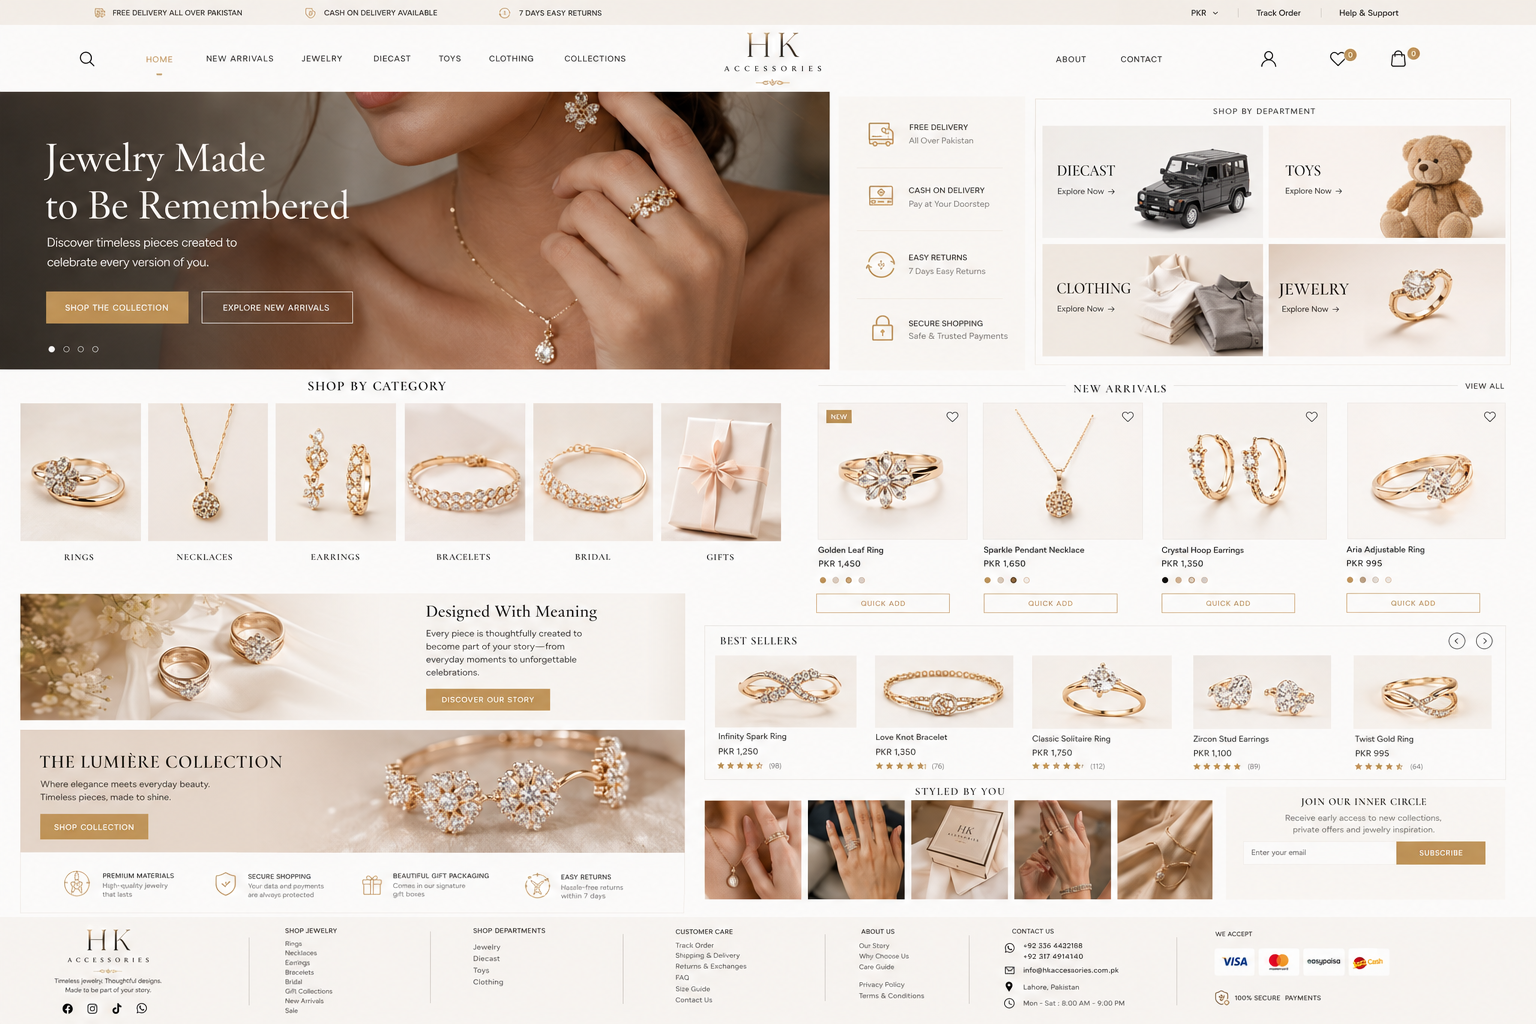
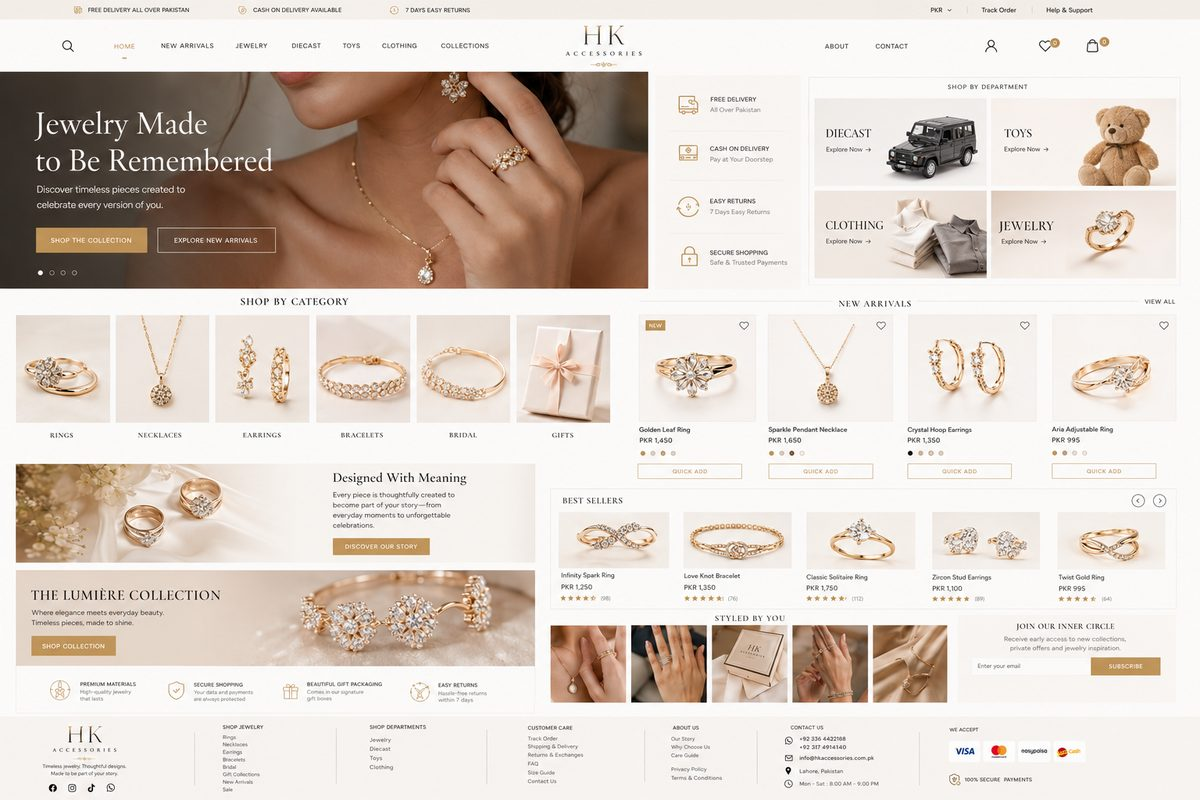
Comprehensive image loading performance optimization (WebP, responsive srcset, loading=lazy, aspect-ratio CLS fix)

Changed region(s): [[0.555, 0.4375, 0.5858, 0.4688], [0.4933, 0.6562, 0.5242, 0.6875]]

diff --git a/js/app.js b/js/app.js
@@ -31,6 +31,45 @@ import {
     isProductInStock
 } from './store.js';
 
+
+// --- IMAGE OPTIMIZATION HELPER ---
+function getOptimizedImgTag({ src, alt = '', className = '', width = 400, height = 400, isEager = false, aspectRatio = '1/1', objectFit = 'cover', extraAttrs = '' }) {
+    if (!src) return '';
+    let optimizedSrc = src;
+    let srcset = '';
+    
+    if (optimizedSrc.includes('ring_img.jpeg') || optimizedSrc.includes('ring_img.jpg')) {
+        optimizedSrc = 'ring_img.webp';
+    } else if (optimizedSrc.includes('/uploads/') && (optimizedSrc.endsWith('.png') || optimizedSrc.endsWith('.jpeg') || optimizedSrc.endsWith('.jpg'))) {
+        optimizedSrc = optimizedSrc.substring(0, optimizedSrc.lastIndexOf('.')) + '.webp';
+    } else if (optimizedSrc.includes('images.unsplash.com')) {
+        try {
+            const urlObj = new URL(optimizedSrc);
+            urlObj.searchParams.set('fm', 'webp');
+            urlObj.searchParams.set('q', '80');
+            urlObj.searchParams.set('auto', 'format');
+            urlObj.searchParams.set('w', width.toString());
+            optimizedSrc = urlObj.toString();
+
+            const wSmall = Math.round(width * 0.75);
+            const wLarge = Math.round(width * 1.5);
+
+            const urlSmall = new URL(optimizedSrc); urlSmall.searchParams.set('w', wSmall.toString());
+            const urlLarge = new URL(optimizedSrc); urlLarge.searchParams.set('w', wLarge.toString());
+
+            srcset = `srcset="${urlSmall.toString()} ${wSmall}w, ${optimizedSrc} ${width}w, ${urlLarge.toString()} ${wLarge}w" sizes="(max-width: 768px) 50vw, ${width}px"`;
+        } catch (e) {
+            // fallback
+        }
+    }
+
+    const loadingAttr = isEager ? 'loading="eager" fetchpriority="high"' : 'loading="lazy" decoding="async"';
+    const classAttr = className ? `class="${className}"` : '';
+    const styleAttr = `style="aspect-ratio: ${aspectRatio}; object-fit: ${objectFit};"`;
+
+    return `<img src="${optimizedSrc}" ${srcset} alt="${escapeHtml(alt)}" ${classAttr} width="${width}" height="${height}" ${loadingAttr} ${styleAttr} ${extraAttrs}>`;
+}
+
 // DOM Element Selections
 const appContainer = document.getElementById('app');
 const cartDrawer = document.getElementById('cart-drawer');
@@ -461,7 +500,7 @@ async function renderHomePage() {
         let html = `
             <!-- 1. Hero Banner (Jewelry Focused) -->
             <section class="hero-banner">
-                <img src="https://images.unsplash.com/photo-1605100804763-247f67b3557e?auto=format&fit=crop&w=1600&q=80" alt="HK Accessories Jewelry" class="hero-bg">
+                ${getOptimizedImgTag({ src: "https://images.unsplash.com/photo-1605100804763-247f67b3557e", alt: "HK Accessories Jewelry", className: "hero-bg", width: 1600, height: 600, isEager: true, aspectRatio: "16/9" })}
                 <div class="hero-overlay"></div>
                 <div class="container">
                     <div class="hero-content">
@@ -487,7 +526,7 @@ async function renderHomePage() {
                         ${jewelryCats.slice(0, 6).map(cat => `
                             <a href="#/jewelry/${cat.name}" class="category-card">
                                 <div class="category-img-wrapper">
-                                    <img src="${cat.image || 'https://images.unsplash.com/photo-1603561591411-07134e71a2a9?auto=format&fit=crop&w=300&q=80'}" alt="${cat.name}">
+                                    ${getOptimizedImgTag({ src: cat.image || "https://images.unsplash.com/photo-1603561591411-07134e71a2a9?auto=format&fit=crop&w=400&q=80", alt: cat.name, width: 400, height: 300, aspectRatio: "4/3" })}
                                 </div>
                                 <h3>${escapeHtml(cat.name)}</h3>
                             </a>
@@ -534,7 +573,7 @@ async function renderHomePage() {
                         <a href="#/jewelry/Couple Rings" class="btn btn-gold">Shop Couple Collection</a>
                     </div>
                     <div class="campaign-img-wrapper">
-                        <img src="ring_img.jpeg" alt="Couple Rings Gift">
+                        ${getOptimizedImgTag({ src: "ring_img.webp", alt: "Couple Rings Gift", width: 600, height: 600, aspectRatio: "1/1" })}
                     </div>
                 </div>
             </section>
@@ -549,7 +588,7 @@ async function renderHomePage() {
                     <div class="departments-grid">
                         <!-- Diecast Card -->
                         <div class="dept-card">
-                            <img src="https://images.unsplash.com/photo-1594787318286-3d835c1d207f?auto=format&fit=crop&w=600&q=80" alt="Diecast Collectibles" class="dept-card-bg">
+                            ${getOptimizedImgTag({ src: "https://images.unsplash.com/photo-1594787318286-3d835c1d207f", alt: "Diecast Collectibles", className: "dept-card-bg", width: 600, height: 400, aspectRatio: "3/2" })}
                             <div class="dept-overlay">
                                 <h3>Diecast Department</h3>
                                 <p>Premium heavy alloy model cars, motorbikes and collectibles.</p>
@@ -558,7 +597,7 @@ async function renderHomePage() {
                         </div>
                         <!-- Toys Card -->
                         <div class="dept-card">
-                            <img src="https://images.unsplash.com/photo-1566576912321-d58edd7a26a4?auto=format&fit=crop&w=600&q=80" alt="Premium Toys" class="dept-card-bg">
+                            ${getOptimizedImgTag({ src: "https://images.unsplash.com/photo-1566576912321-d58edd7a26a4", alt: "Premium Toys", className: "dept-card-bg", width: 600, height: 400, aspectRatio: "3/2" })}
                             <div class="dept-overlay">
                                 <h3>Toys & Games</h3>
                                 <p>Action figures, educational puzzle blocks, and remote control cars.</p>
@@ -567,7 +606,7 @@ async function renderHomePage() {
                         </div>
                         <!-- Clothing Card -->
                         <div class="dept-card">
-                            <img src="https://images.unsplash.com/photo-1562157873-818bc0726f68?auto=format&fit=crop&w=600&q=80" alt="Clothing Apparel" class="dept-card-bg">
+                            ${getOptimizedImgTag({ src: "https://images.unsplash.com/photo-1562157873-818bc0726f68", alt: "Clothing Apparel", className: "dept-card-bg", width: 600, height: 400, aspectRatio: "3/2" })}
                             <div class="dept-overlay">
                                 <h3>Clothing Department</h3>
                                 <p>Relaxed-fit cotton tees, fleece hoodies, and trendy apparel.</p>
@@ -822,7 +861,7 @@ async function renderCatalogPage() {
             <div class="container">
                 <!-- 1. Department Promotion Banner -->
                 <div class="dept-banner">
-                    <img src="${deptInfo.image}" alt="${deptInfo.title}" class="dept-banner-bg">
+                    ${getOptimizedImgTag({ src: deptInfo.image, alt: deptInfo.title, className: "dept-banner-bg", width: 1600, height: 400, isEager: true, aspectRatio: "16/5" })}
                     <div class="dept-banner-overlay">
                         <h1>${escapeHtml(deptInfo.title)}</h1>
                         <p>${escapeHtml(deptInfo.subtitle)}</p>
@@ -1143,7 +1182,7 @@ function renderProductCards(productsList) {
         return `
             <div class="product-card" data-id="${p.id}">
                 <div class="product-image-wrapper">
-                    <img src="${p.images[0]}" alt="${p.title}">
+                    ${getOptimizedImgTag({ src: p.images[0], alt: p.title, width: 300, height: 300, aspectRatio: "1/1" })}
                     
                     <div class="product-badges">
                         ${hasDiscount ? `<span class="badge-sale">-${discountPct}% OFF</span>` : ''}
@@ -1254,12 +1293,12 @@ async function renderProductDetailPage(id) {
                     <!-- Left: Images Column -->
                     <div class="product-gallery">
                         <div class="main-image-wrapper">
-                            <img src="${product.images[0]}" alt="${product.title}" id="main-product-gallery-img">
+                            ${getOptimizedImgTag({ src: product.images[0], alt: product.title, width: 800, height: 800, isEager: true, aspectRatio: "1/1", extraAttrs: 'id="main-product-gallery-img"' })}
                         </div>
                         <div class="thumbnails-grid">
                             ${product.images.map((img, idx) => `
                                 <div class="thumbnail-item ${idx === 0 ? 'active' : ''}" data-src="${img}">
-                                    <img src="${img}" alt="${product.title} Thumb ${idx + 1}">
+                                    ${getOptimizedImgTag({ src: img, alt: `${product.title} Thumb ${idx + 1}`, width: 120, height: 120, aspectRatio: "1/1" })}
                                 </div>
                             `).join('')}
                         </div>
@@ -1600,7 +1639,7 @@ function renderCartPage() {
                         ${items.map(item => `
                             <div class="cart-item-row" data-id="${item.id}" data-attrs='${JSON.stringify(item.selectedAttributes)}'>
                                 <div class="cart-item-info">
-                                    <img src="${item.image}" alt="${item.title}" class="cart-item-img">
+                                    ${getOptimizedImgTag({ src: item.image, alt: item.title, className: "cart-item-img", width: 100, height: 100, aspectRatio: "1/1" })}
                                     <div class="cart-item-details">
                                         <h3><a href="#/product/${item.id}">${escapeHtml(item.title)}</a></h3>
                                         ${Object.keys(item.selectedAttributes).length > 0 ? `
@@ -1878,7 +1917,7 @@ function renderCheckoutPage() {
                     <div class="order-items-list">
                         ${items.map(item => `
                             <div class="checkout-item-row">
-                                <img src="${item.image}" alt="${item.title}" class="checkout-item-img">
+                                ${getOptimizedImgTag({ src: item.image, alt: item.title, className: "checkout-item-img", width: 80, height: 80, aspectRatio: "1/1" })}
                                 <div class="checkout-item-info">
                                     <div class="checkout-item-title">${escapeHtml(item.title)}</div>
                                     <div class="checkout-item-qty">Qty: ${item.quantity} ${Object.keys(item.selectedAttributes).length > 0 ? `| ${Object.values(item.selectedAttributes).join(', ')}` : ''}</div>
@@ -2359,7 +2398,7 @@ function renderCartDrawer() {
 
     itemsContainer.innerHTML = items.map(item => `
         <div class="drawer-item" data-id="${item.id}">
-            <img src="${item.image}" alt="${item.title}" class="drawer-item-img">
+            ${getOptimizedImgTag({ src: item.image, alt: item.title, className: "drawer-item-img", width: 80, height: 80, aspectRatio: "1/1" })}
             <div class="drawer-item-info">
                 <a href="#/product/${item.id}" class="drawer-item-title">${escapeHtml(item.title)}</a>
                 ${Object.keys(item.selectedAttributes).length > 0 ? `

diff --git a/server.py b/server.py
@@ -524,7 +524,30 @@ class CustomHandler(http.server.SimpleHTTPRequestHandler):
                     fh.write(file_data)
 
                 file_url = f'/uploads/{safe_name}'
-                print(f'[UPLOAD] Saved: {save_path} -> {file_url}')
+                
+                # Auto-generate optimized WebP version
+                try:
+                    from PIL import Image
+                    import io
+                    img = Image.open(io.BytesIO(file_data))
+                    webp_name = f"{uuid.uuid4().hex}.webp"
+                    webp_path = os.path.abspath(os.path.join(target_dir, webp_name))
+                    
+                    if img.width > 1200 or img.height > 1200:
+                        img.thumbnail((1200, 1200), Image.Resampling.LANCZOS)
+                        
+                    if img.mode in ('RGBA', 'LA', 'P'):
+                        rgb_img = img.convert('RGB')
+                    else:
+                        rgb_img = img
+                        
+                    rgb_img.save(webp_path, 'WEBP', quality=82, optimize=True)
+                    file_url = f'/uploads/{webp_name}'
+                    safe_name = webp_name
+                    print(f'[UPLOAD OPTIMIZED WEBP] Created: {webp_path} -> {file_url}')
+                except Exception as img_err:
+                    print(f'[UPLOAD OPTIMIZE WARNING] {img_err}')
+
                 self._send_json({'success': True, 'url': file_url, 'filename': safe_name})
 
             except Exception as e:
